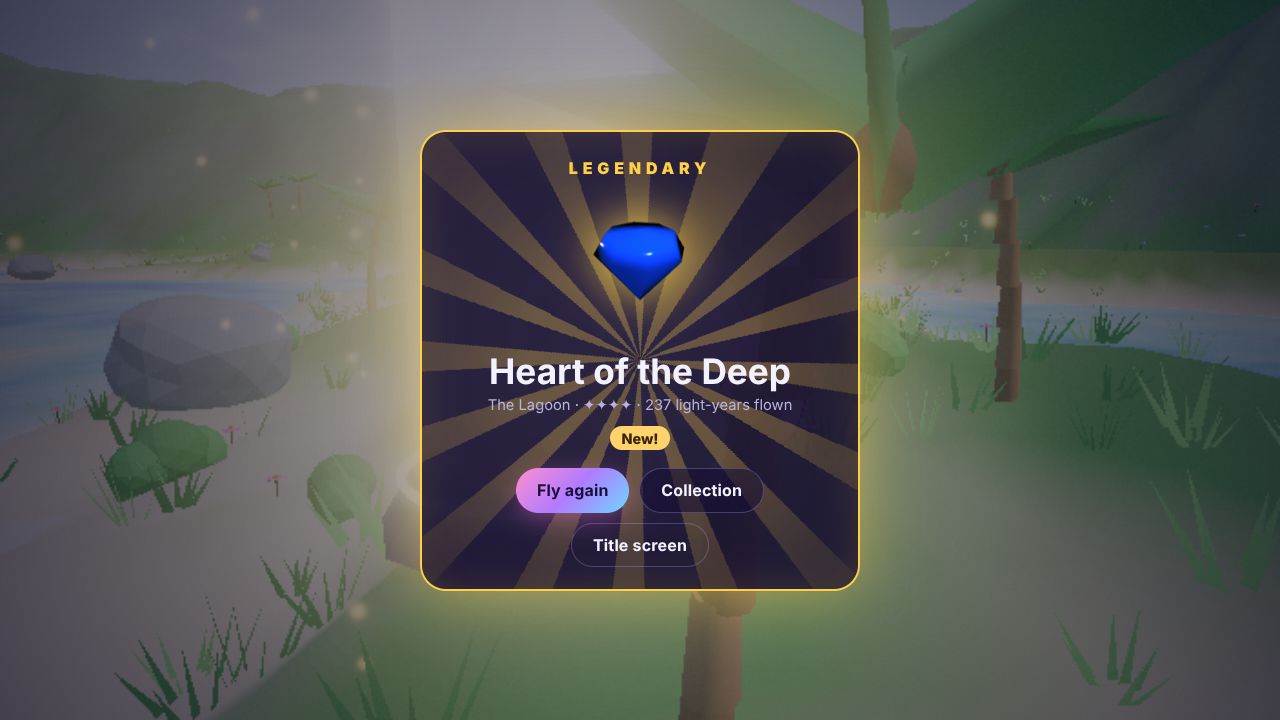
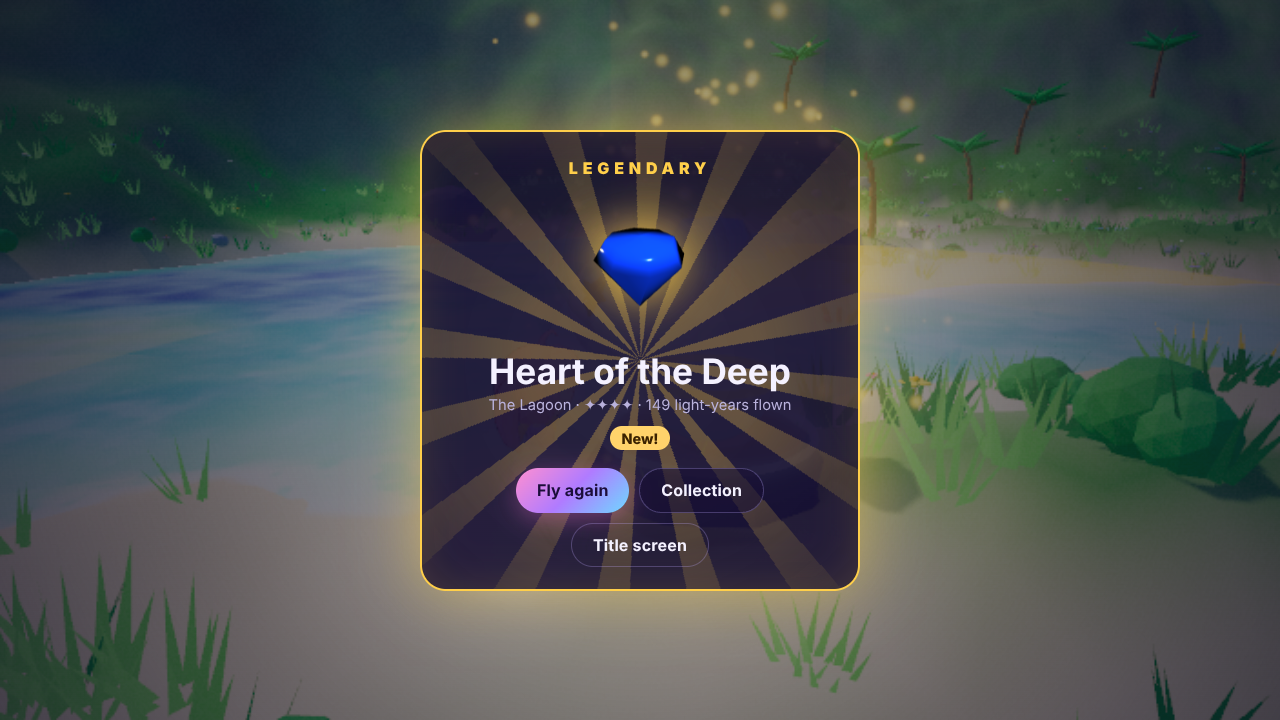
Polish the worlds, the reveal and the title screen
- Daylight worlds keep their colors: softer light, thinner haze and a
  little more saturation after tone mapping. The Cliffs turn from flat red
  to sunset terracotta, the Crystal Sea gets more water and deeper color,
  and the Star Dunes more glowing crystals under a bluer moon.
- While the treasure opens, the camera frames the capsule from the nearer
  side, and the pillar of light thins so the treasure itself shines.
- The camera in the worlds sits a little lower and shows more sky.
- The title sits above the ship, light trails are thinner, and entering a
  hole fills the screen less abruptly.
- `?quality=high` chooses the graphics for a visit; the README
  screenshots use it.

Claude-Session: https://claude.ai/code/session_01WQbEhUNT231UkiV34K3PhN

diff --git a/src/view/world/themes.ts b/src/view/world/themes.ts
@@ -76,9 +76,9 @@ export const THEMES: Readonly<Record<WorldId, WorldTheme>> = {
     },
     ground: { low: 0xb5553f, mid: 0xc9714f, high: 0xe0a27a, steep: 0x7d3530 },
     props: {
-      rock: [0x9b4a3c],
-      boulder: [0x8f4535],
-      mesa: [0xa8503c],
+      rock: [0xa8604a],
+      boulder: [0x9c5844],
+      mesa: [0xb8664a],
       deadTree: [0x5a3a2e],
       shrub: [0xd8b468],
       crystal: [0xff5577, 0xff3366],
@@ -119,8 +119,8 @@ export const THEMES: Readonly<Record<WorldId, WorldTheme>> = {
       coral: [0xff7aa8],
     },
     motes: { color: 0xffffff, count: 90, size: 0.08, rise: 0.15 },
-    exposure: 0.95,
-    bloom: 0.35,
+    exposure: 0.85,
+    bloom: 0.25,
   },
   canyon: {
     sky: {
@@ -189,35 +189,35 @@ export const THEMES: Readonly<Record<WorldId, WorldTheme>> = {
   },
   crystalSea: {
     sky: {
-      zenith: 0x7f9fff,
-      horizon: 0xffe6f4,
-      below: 0xdfe8ff,
+      zenith: 0x5a6fe0,
+      horizon: 0xf6c8e8,
+      below: 0xc8c8f0,
       sun: 0xfff0f8,
-      sunDir: [-0.35, 0.28, -0.8],
+      sunDir: [-0.35, 0.22, -0.8],
       sunSize: 0.045,
-      stars: 0.05,
+      stars: 0.1,
       aurora: 0,
-      clouds: 0.4,
+      clouds: 0.45,
     },
-    fog: { color: 0xe6e4ff, near: 60, far: 280 },
+    fog: { color: 0xd8c8f0, near: 60, far: 280 },
     light: {
-      sun: 0xffeef6,
-      sunIntensity: 2.5,
-      skyAmbient: 0xc8d4ff,
-      groundAmbient: 0xa8b8ff,
-      ambientIntensity: 1.2,
+      sun: 0xffe6f2,
+      sunIntensity: 2.2,
+      skyAmbient: 0xa8b4ff,
+      groundAmbient: 0x8a80d0,
+      ambientIntensity: 1.0,
     },
-    ground: { low: 0xe6e2f6, mid: 0xf4f1ff, high: 0xd6d8f0, steep: 0xb8bce0, shore: 0xfdfbff },
-    water: { shallow: 0xbff4ff, deep: 0x6f8fff, foam: 0xffffff },
+    ground: { low: 0xc8c4ea, mid: 0xdcd6f6, high: 0xbcb6e6, steep: 0x9a94d0, shore: 0xf2eeff },
+    water: { shallow: 0x8fe8ff, deep: 0x4a5cf0, foam: 0xffffff },
     props: {
-      crystalPillar: [0xd9e2ff, 0xa6c8ff],
-      crystal: [0xe9f0ff, 0xc8b8ff],
-      rock: [0xc8cce6],
-      coral: [0xb8f0ff],
+      crystalPillar: [0xc8d4ff, 0x9fb8ff],
+      crystal: [0xd8c8ff, 0xb8a8ff],
+      rock: [0xa8a4d8],
+      coral: [0x9ff0ff],
     },
     motes: { color: 0xffffff, count: 200, size: 0.07, rise: 0.12 },
-    exposure: 0.9,
-    bloom: 0.6,
+    exposure: 0.78,
+    bloom: 0.55,
   },
   starDunes: {
     sky: {
@@ -242,11 +242,11 @@ export const THEMES: Readonly<Record<WorldId, WorldTheme>> = {
     },
     ground: { low: 0xb08560, mid: 0xc79a6c, high: 0xe0bc88, steep: 0x8a6a52 },
     props: {
-      spire: [0x7a5a4c],
-      rock: [0x8a6a58],
-      boulder: [0x7d604f],
+      spire: [0x6a5470],
+      rock: [0x8a7488],
+      boulder: [0x7a6480],
       crystal: [0x9fd8ff, 0x6fc8ff],
-      shrub: [0xb0a070],
+      shrub: [0xc0b090],
     },
     motes: { color: 0xbfe0ff, count: 140, size: 0.08, rise: 0.08 },
     exposure: 1.05,

diff --git a/src/view/world/treasure.ts b/src/view/world/treasure.ts
@@ -99,7 +99,7 @@ export class TreasureView {
     this.#inner = glowSprite(BEAM_COLOR, 1.6, 0.6)
     this.#inner.position.y = 1.0
     this.group.add(this.#inner)
-    this.#halo = glowSprite(BEAM_COLOR, 7, 0.25)
+    this.#halo = glowSprite(BEAM_COLOR, 6, 0.18)
     this.#halo.position.y = 1.2
     this.group.add(this.#halo)
 
@@ -131,8 +131,8 @@ export class TreasureView {
             float up = vUv.y;
             float fade = pow(1.0 - up, 1.6) * smoothstep(0.0, 0.01, up);
             float streaks = 0.7 + 0.3 * sin(vUv.x * 6.2831853 * 3.0 + uTime * 0.8) * sin(up * 90.0 - uTime * 4.0);
-            float alpha = fade * streaks * 0.45 * uPower;
-            gl_FragColor = vec4(uColor * alpha * 1.6, alpha);
+            float alpha = fade * streaks * 0.32 * uPower;
+            gl_FragColor = vec4(uColor * alpha * 1.3, alpha);
           }
         `,
       }),
@@ -175,7 +175,7 @@ export class TreasureView {
     const beam = this.#beam.material as THREE.ShaderMaterial
     uniform(beam.uniforms, 'uTime').value = time
     const pulse = 0.85 + Math.sin(time * 2.4) * 0.15
-    this.#halo.material.opacity = 0.22 * pulse
+    this.#halo.material.opacity = 0.15 * pulse
     if (opening < 0) {
       this.#lid.rotation.x = 0
       this.group.rotation.z = 0
@@ -194,15 +194,16 @@ export class TreasureView {
     this.item.rotation.y += dt * (revealed ? 1.2 : 4 * (1 - rise) + 1.2)
     const color = BEAM_COLOR.clone().lerp(this.#rarity, clamp(t * 1.4, 0, 1))
     uniform(beam.uniforms, 'uColor').value.copy(color)
-    uniform(beam.uniforms, 'uPower').value = 1 + rise * 1.2
+    // The pillar thins as the treasure rises, so the treasure itself is what shines.
+    uniform(beam.uniforms, 'uPower').value = 1 - rise * 0.45
     ;(this.#seam.material as THREE.MeshBasicMaterial).color.copy(color).multiplyScalar(2.2)
     this.#inner.material.color.copy(color)
     this.#halo.material.color.copy(color)
-    this.#inner.scale.setScalar(1.6 + rise * 2.2)
+    this.#inner.scale.setScalar(1.6 + rise * 1.2)
     this.#inner.position.y = 1.0 + rise
     if (this.#light) {
       this.#light.color.copy(color)
-      this.#light.intensity = 6 + rise * 14
+      this.#light.intensity = 6 + rise * 6
     }
     if (revealed && this.#revealedAt < 0) this.#revealedAt = time
     const since = this.#revealedAt < 0 ? -1 : time - this.#revealedAt

diff --git a/src/view/world/worldStage.ts b/src/view/world/worldStage.ts
@@ -61,7 +61,7 @@ export class WorldStage implements Stage {
   readonly #focus = new THREE.Vector3()
   readonly #desired = new THREE.Vector3()
   #yaw = 0
-  #pitch = 0.32
+  #pitch = 0.24
   #distance = 6.5
   #idleLook = 10
   #stepDistance = 0
@@ -178,8 +178,10 @@ export class WorldStage implements Stage {
     this.look.bloom = theme.bloom
     this.look.bloomThreshold = 0.95
     this.look.bloomRadius = 0.45
-    this.look.vignette = 0.28
+    this.look.vignette = 0.3
     this.look.grain = 0.025
+    // Tone mapping pales bright daylight; a little more color brings it back.
+    this.look.saturation = 1.18
     this.look.flash = 1
     this.look.flashColor.setRGB(1, 1, 1)
   }
@@ -287,19 +289,30 @@ export class WorldStage implements Stage {
     let yaw = this.#yaw
     let pitch = this.#pitch
     let distance = this.#distance
-    this.#target.set(walker.x, walker.y + 1.15, walker.z)
+    this.#target.set(walker.x, walker.y + 1.35, walker.z)
     if (expedition.phase !== 'exploring') {
       // Frame the girl and the treasure from the side while it opens.
       const treasure = expedition.treasure
       const dx = treasure.x - walker.x
       const dz = treasure.z - walker.z
-      const side = Math.atan2(dx, dz) + Math.PI / 2
+      // Of the two sides, the one nearer to where the camera already is.
+      const along = Math.atan2(dx, dz)
+      const left = along + Math.PI / 2
+      const right = along - Math.PI / 2
+      const side =
+        Math.abs(angleDelta(this.#yaw, left)) < Math.abs(angleDelta(this.#yaw, right))
+          ? left
+          : right
       yaw = this.#yaw + angleDelta(this.#yaw, side)
-      this.#yaw = approach(this.#yaw, yaw, 1.6, dt)
+      this.#yaw = approach(this.#yaw, yaw, 2.2, dt)
       yaw = this.#yaw
-      pitch = 0.18
-      distance = 5.2
-      this.#target.set((walker.x + treasure.x) / 2, walker.y + 1.4, (walker.z + treasure.z) / 2)
+      pitch = 0.26
+      distance = 6.4
+      this.#target.set(
+        walker.x * 0.4 + treasure.x * 0.6,
+        walker.y + 1.5,
+        walker.z * 0.4 + treasure.z * 0.6,
+      )
     }
     // The arrival swoops down from high above.
     const swoop = 1 - (1 - intro) ** 3

diff --git a/tests/screenshots/readme.spec.ts b/tests/screenshots/readme.spec.ts
@@ -5,28 +5,31 @@ import { openGame, walkToTreasure, warpInto } from '../e2e/game'
 const shot = (page: Page, name: string) => page.screenshot({ path: `docs/screenshots/${name}.png` })
 
 test.use({ viewport: { width: 1280, height: 720 }, locale: 'en-US' })
+test.describe.configure({ timeout: 400_000 })
 
 test('title, ride, world and treasure', async ({ page }) => {
-  await openGame(page)
+  await openGame(page, 'high')
   await page.waitForTimeout(2500)
   await shot(page, 'title')
   await page.getByRole('button', { name: 'Fly!' }).click()
   await page.getByRole('button', { name: 'Got it' }).click()
+  // The mouse steers: back to the middle of the screen, so the ship flies straight on.
+  await page.mouse.move(640, 300)
   await page.waitForTimeout(6000)
   await shot(page, 'ride')
   await warpInto(page, 'blue', 4)
   await expect(page.getByText('Find the treasure under the pillar of light')).toBeVisible({
-    timeout: 20_000,
+    timeout: 120_000,
   })
   await page.getByRole('button', { name: 'Got it' }).click()
-  await page.waitForTimeout(1500)
+  await page.waitForTimeout(4000)
   await shot(page, 'world')
   await walkToTreasure(page)
   await page.waitForTimeout(800)
   await page.keyboard.press('KeyE')
   await page.waitForTimeout(2000)
   await shot(page, 'opening')
-  await expect(page.getByRole('button', { name: 'Fly again' })).toBeVisible({ timeout: 15_000 })
+  await expect(page.getByRole('button', { name: 'Fly again' })).toBeVisible({ timeout: 90_000 })
   await page.waitForTimeout(1000)
   await shot(page, 'reward')
 })

diff --git a/src/ui/App.tsx b/src/ui/App.tsx
@@ -10,7 +10,7 @@ import { holeRadius } from '../core/ride'
 import { type WorldId, worldOf } from '../core/worlds'
 import { type GameEvent, onGameEvent } from '../game/events'
 import { rideHud } from '../game/hud'
-import { type Settings, settings } from '../game/settings'
+import { QUALITIES, type Settings, settings } from '../game/settings'
 import { t } from '../i18n'
 import { buzz, haptics } from '../input/haptics'
 import { Input } from '../input/input'
@@ -101,7 +101,10 @@ export function App({ store }: Props) {
       }
       if (cancelled) return
       bookRef.current = opened
-      settings.value = opened.current.settings
+      // `?quality=high` and the like choose the graphics for this visit only, as for screenshots.
+      const forced = new URLSearchParams(location.search).get('quality')
+      const quality = QUALITIES.find((level) => level === forced)
+      settings.value = quality ? { ...opened.current.settings, quality } : opened.current.settings
       setBook(opened)
       setSave(opened.current)
     }

diff --git a/src/view/ride/rideStage.ts b/src/view/ride/rideStage.ts
@@ -145,8 +145,8 @@ export class RideStage implements Stage {
     this.#ship.seat.add(this.#girl.group)
     scene.add(this.#ship.group)
     this.#trails = [
-      new Trail(28, 0.07, new THREE.Color(0.45, 0.9, 1.0)),
-      new Trail(28, 0.07, new THREE.Color(1.0, 0.55, 0.9)),
+      new Trail(22, 0.035, new THREE.Color(0.45, 0.9, 1.0)),
+      new Trail(22, 0.035, new THREE.Color(1.0, 0.55, 0.9)),
     ]
     for (const trail of this.#trails) scene.add(trail.mesh)
 
@@ -362,7 +362,7 @@ export class RideStage implements Stage {
       const entered = ride.entered === hole
       if (entered) {
         const t = Math.min(1, ride.warp / RIDE.warpTime)
-        view.group.scale.setScalar(1 + t * t * 14)
+        view.group.scale.setScalar(1 + t * t * 7)
       }
       const fade = entered
         ? 1

diff --git a/src/core/layouts.ts b/src/core/layouts.ts
@@ -173,8 +173,8 @@ export const LAYOUTS: Readonly<Record<WorldId, WorldLayout>> = {
   },
   crystalSea: {
     land: {
-      base: -0.35,
-      hills: 1.6,
+      base: -0.55,
+      hills: 1.8,
       hillScale: 0.03,
       ridges: 0,
       ridgeScale: 0.02,
@@ -211,7 +211,7 @@ export const LAYOUTS: Readonly<Record<WorldId, WorldLayout>> = {
       rule('spire', 18, [0.8, 1.6], 1.4, { from: 20, to: 110 }),
       rule('rock', 60, [0.3, 1], 0),
       rule('boulder', 16, [0.6, 1.2], 1.1, { from: 12, to: 80 }),
-      rule('crystal', 36, [0.5, 1.2], 0.5, { from: 10, to: 80 }),
+      rule('crystal', 70, [0.6, 1.5], 0.5, { from: 8, to: 80 }),
       rule('shrub', 500, [0.6, 1.2], 0, { to: 85 }),
     ],
   },

diff --git a/tests/e2e/game.ts b/tests/e2e/game.ts
@@ -11,8 +11,8 @@ export function watchErrors(page: Page): string[] {
 }
 
 /** Opens the game with its debug hook and waits until the 3D view runs. */
-export async function openGame(page: Page): Promise<void> {
-  await page.goto('./?debug')
+export async function openGame(page: Page, quality?: string): Promise<void> {
+  await page.goto(quality ? `./?debug&quality=${quality}` : './?debug')
   await page.waitForFunction(() => 'wormhole' in window, null, { timeout: 30_000 })
   await expect(page.getByRole('button', { name: 'Fly!' })).toBeEnabled()
 }

diff --git a/src/ui/styles.css b/src/ui/styles.css
@@ -156,6 +156,7 @@ kbd {
   inset: 0;
   display: grid;
   grid-template-rows: 1fr auto auto;
+  align-content: space-between;
   justify-items: center;
   align-items: center;
   padding: max(24px, env(safe-area-inset-top)) max(24px, env(safe-area-inset-right))
@@ -166,7 +167,8 @@ kbd {
 
 .title-block {
   text-align: center;
-  align-self: end;
+  align-self: start;
+  margin-top: 4vh;
   animation: rise 1.2s cubic-bezier(0.2, 0.9, 0.2, 1) both;
 }
 
